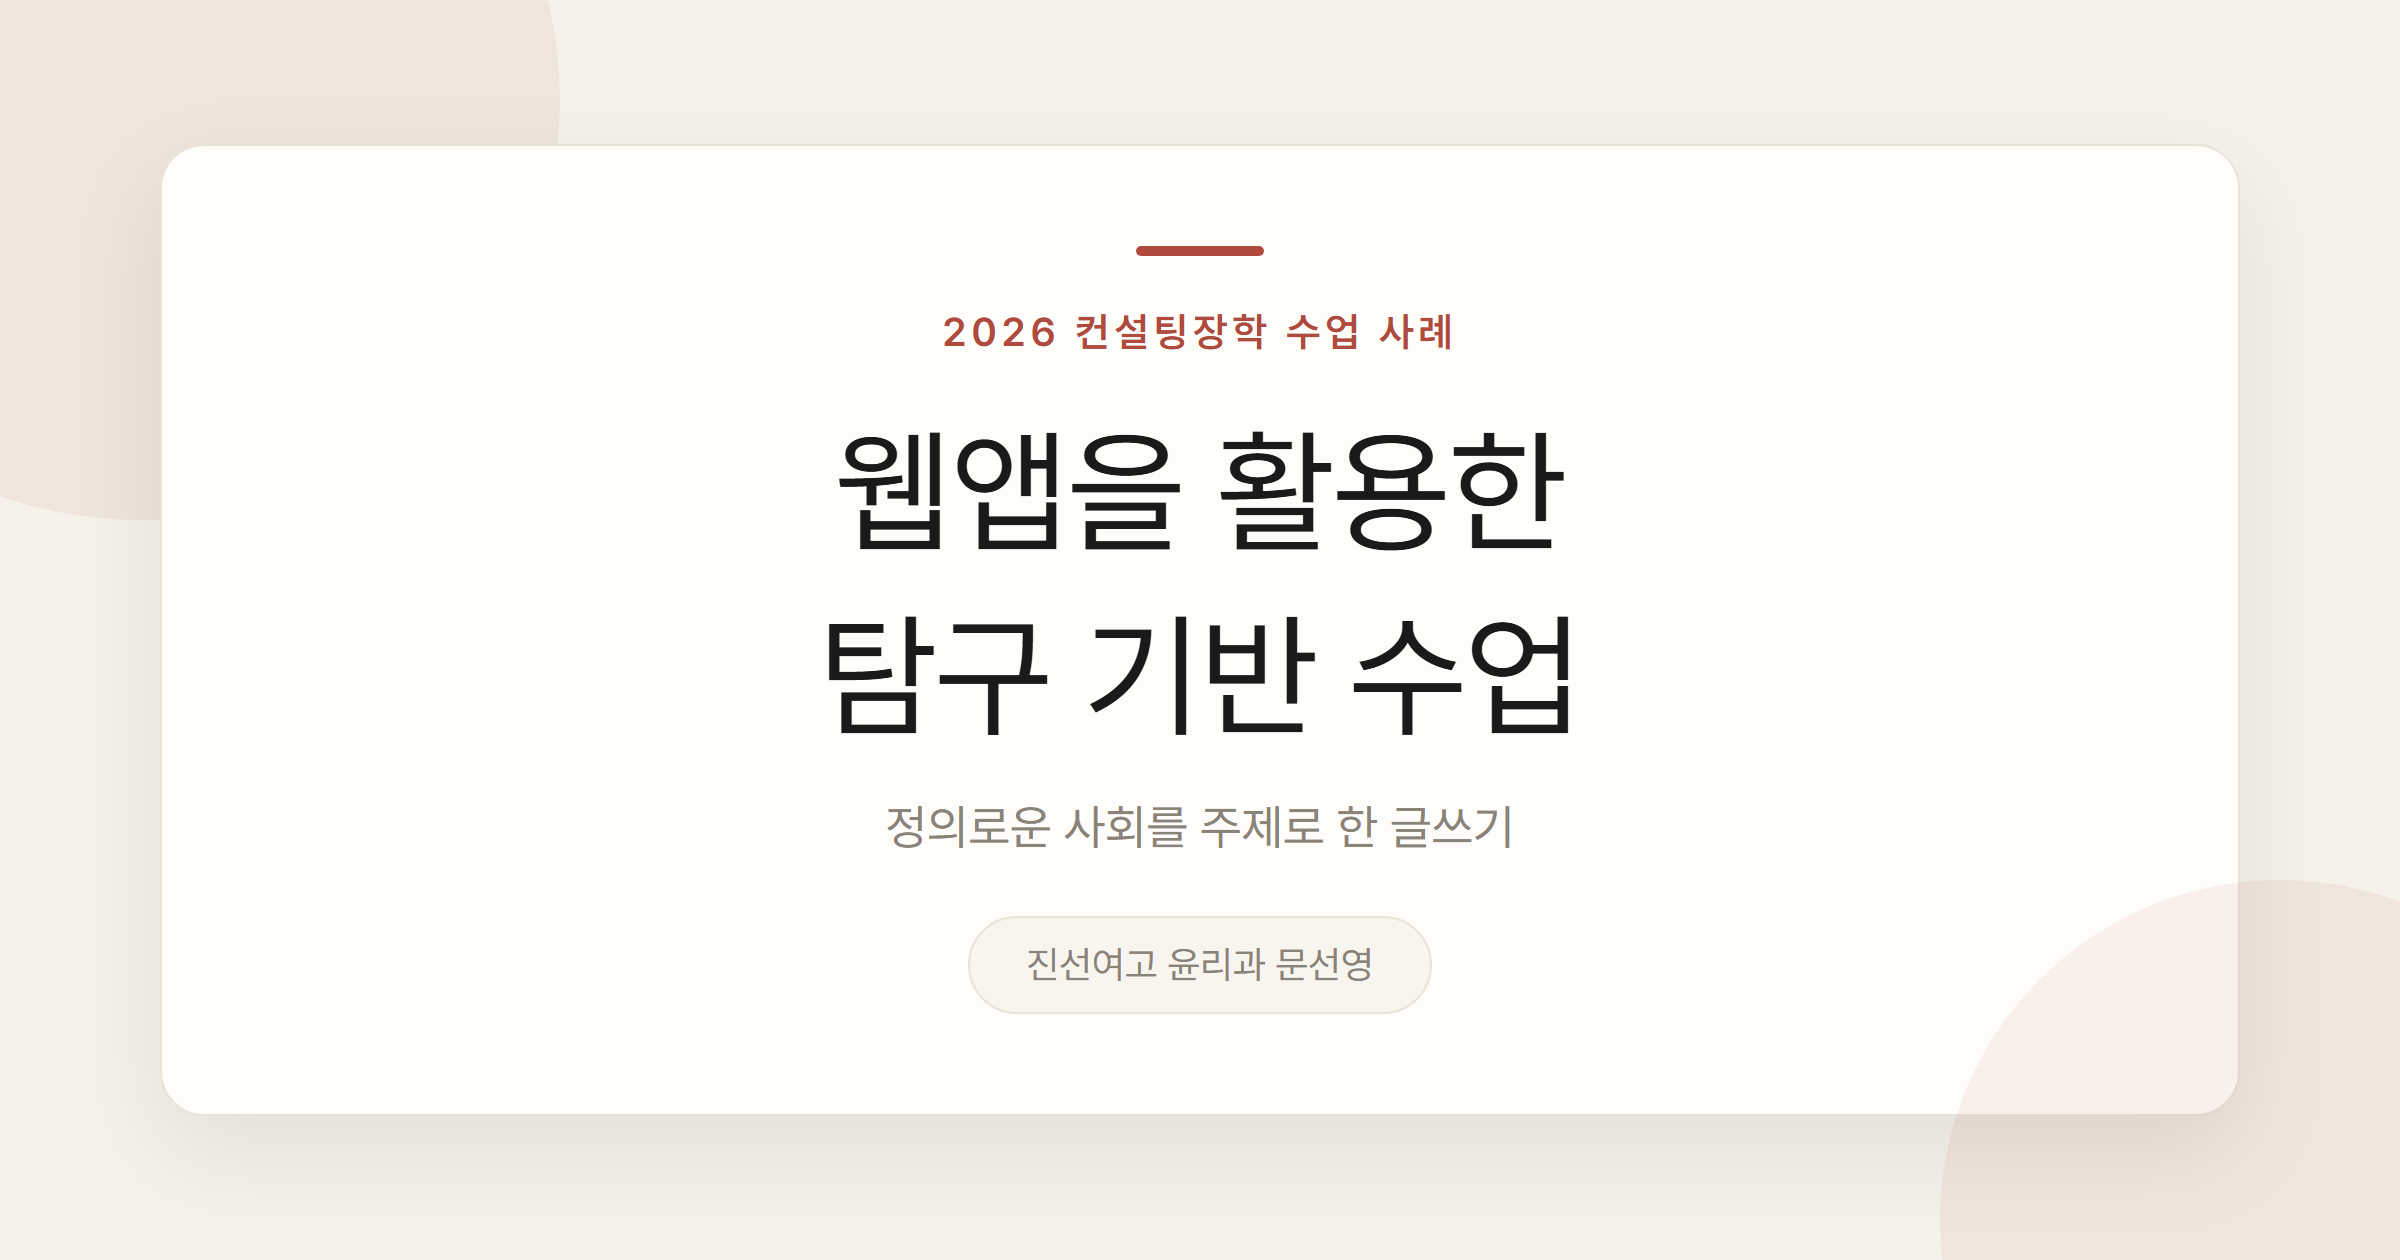
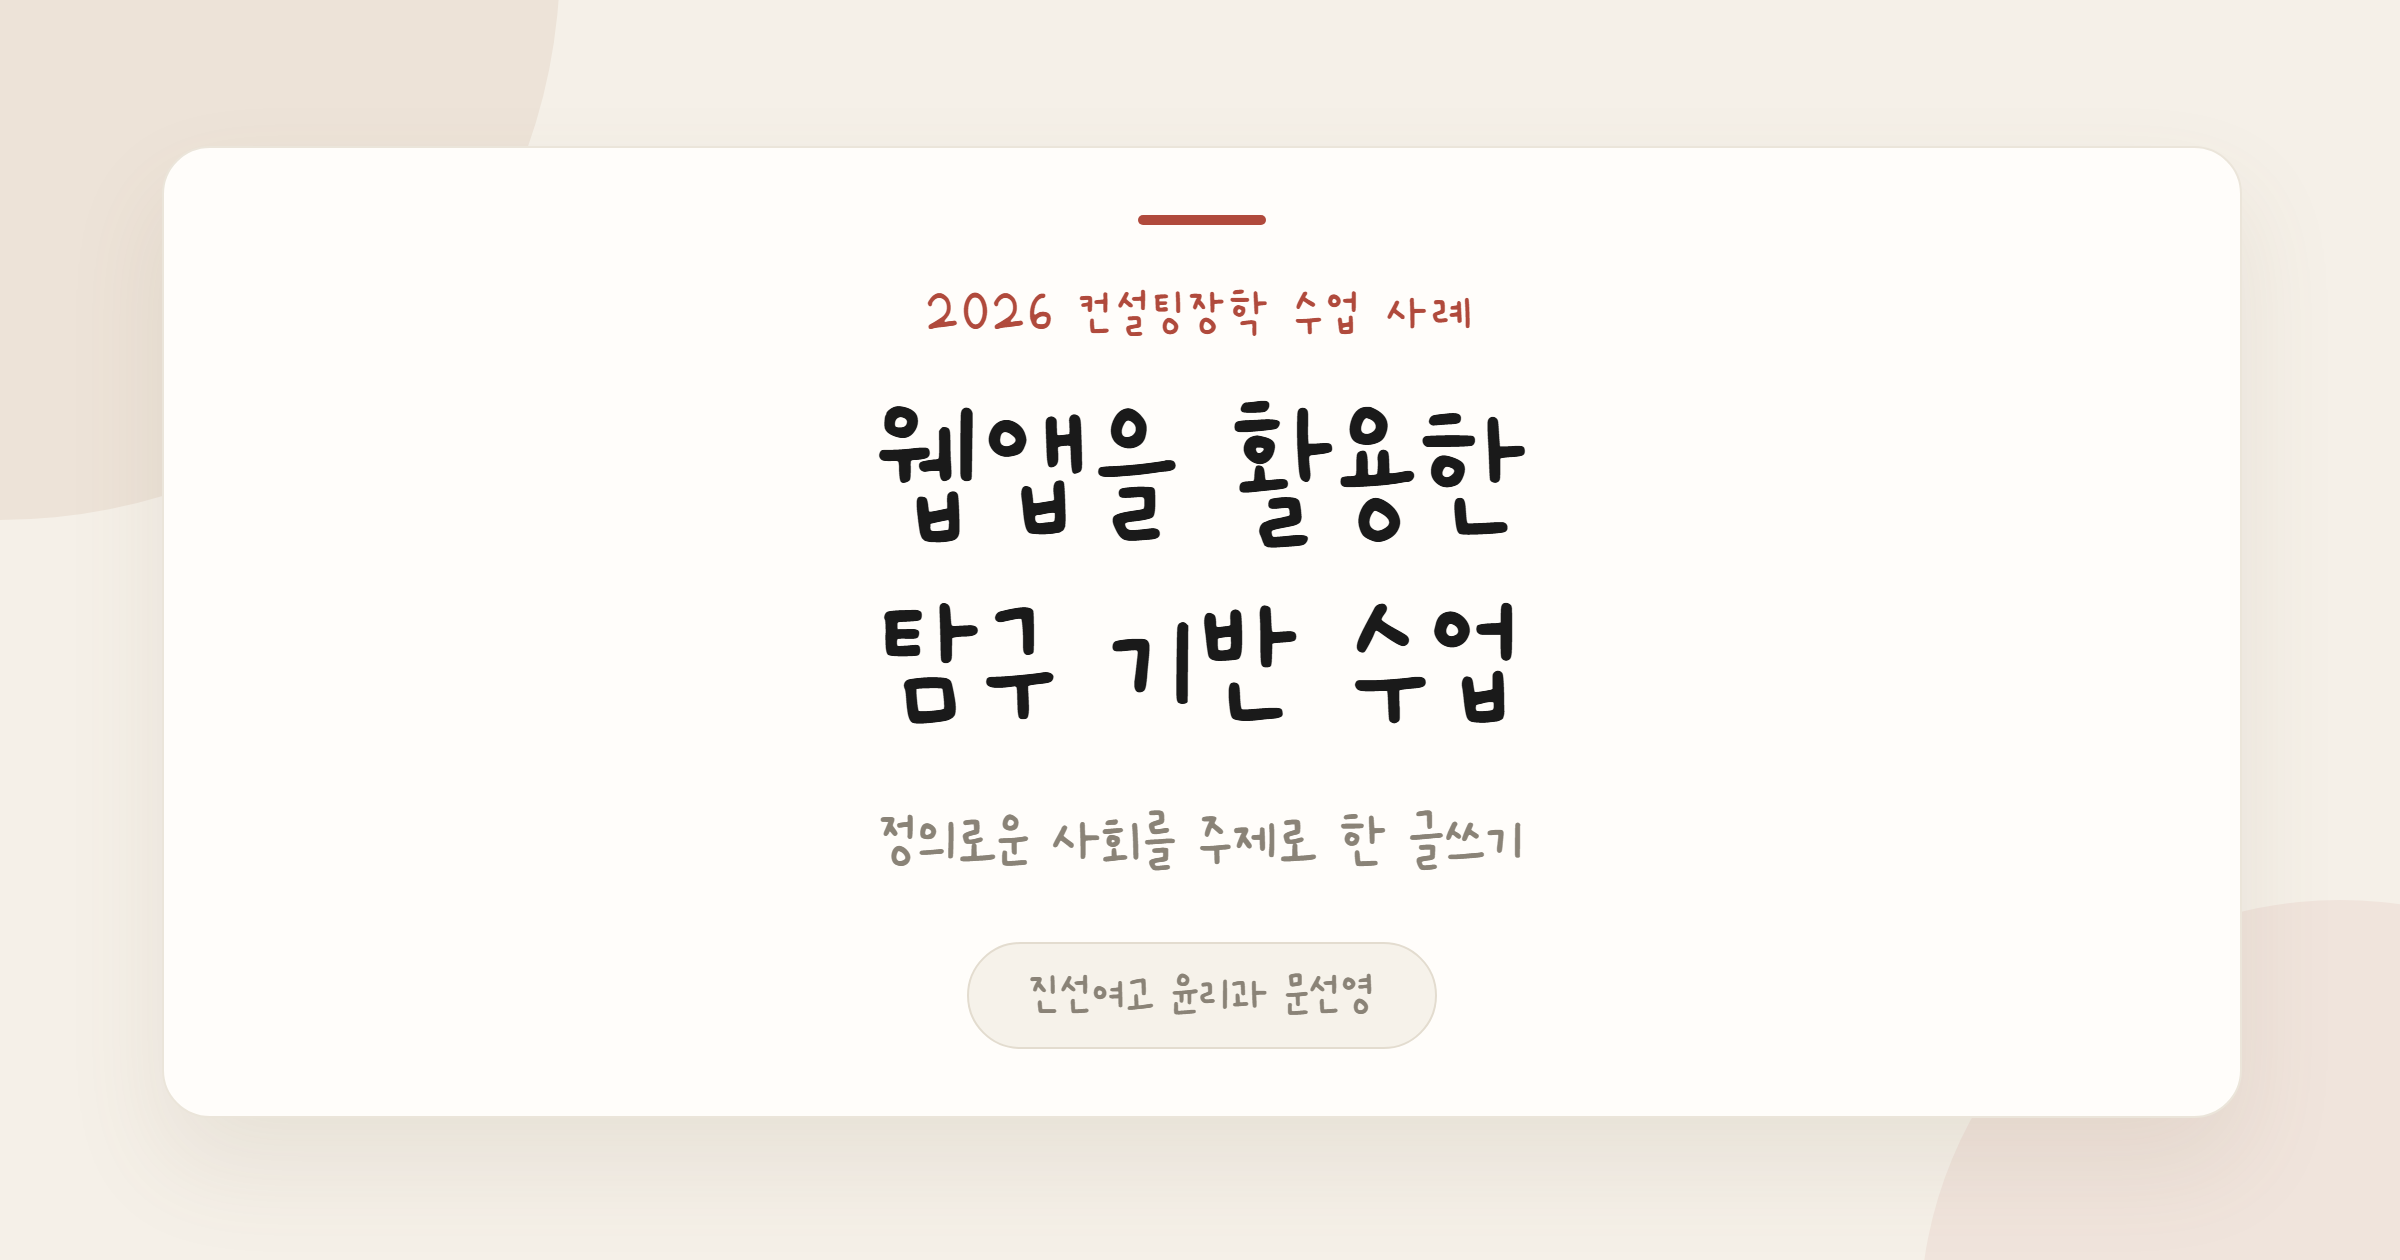
0911 미리보기 이미지를 언즈체로 바꾸고, c4에 가로형 미리보기 이미지와 og 태그 추가

diff --git a/0911/index.html b/0911/index.html
@@ -16,14 +16,14 @@
   <meta property="og:type" content="website">
   <meta property="og:title" content="웹앱을 활용한 탐구 기반 수업">
   <meta property="og:description" content="정의로운 사회를 주제로 한 글쓰기 · 진선여고 윤리과 문선영">
-  <meta property="og:image" content="https://moontr.site/0911/og-image.png">
+  <meta property="og:image" content="https://moontr.site/0911/og-image.png?v=2">
   <meta property="og:image:width" content="2400">
   <meta property="og:image:height" content="1260">
   <meta property="og:url" content="https://moontr.site/0911/">
   <meta name="twitter:card" content="summary_large_image">
   <meta name="twitter:title" content="웹앱을 활용한 탐구 기반 수업">
   <meta name="twitter:description" content="정의로운 사회를 주제로 한 글쓰기 · 진선여고 윤리과 문선영">
-  <meta name="twitter:image" content="https://moontr.site/0911/og-image.png">
+  <meta name="twitter:image" content="https://moontr.site/0911/og-image.png?v=2">
   <link rel="preconnect" href="https://fonts.googleapis.com">
   <link rel="preconnect" href="https://fonts.gstatic.com" crossorigin>
   <link rel="stylesheet"

diff --git a/c4/index.html b/c4/index.html
@@ -4,6 +4,17 @@
 <meta charset="UTF-8">
 <meta name="viewport" content="width=device-width, initial-scale=1.0">
 <title>moontr.site/c4</title>
+<meta property="og:type" content="website">
+<meta property="og:title" content="웹앱을 활용한 탐구 기반 수업">
+<meta property="og:description" content="통합사회 2 · 정의로운 사회를 주제로 한 글쓰기">
+<meta property="og:image" content="https://moontr.site/c4/og-image.png">
+<meta property="og:image:width" content="2400">
+<meta property="og:image:height" content="1260">
+<meta property="og:url" content="https://moontr.site/c4/">
+<meta name="twitter:card" content="summary_large_image">
+<meta name="twitter:title" content="웹앱을 활용한 탐구 기반 수업">
+<meta name="twitter:description" content="통합사회 2 · 정의로운 사회를 주제로 한 글쓰기">
+<meta name="twitter:image" content="https://moontr.site/c4/og-image.png">
 <style>
   html, body { margin: 0; padding: 0; width: 100%; height: 100%; overflow: hidden; }
   iframe { width: 100%; height: 100vh; border: none; display: block; }
